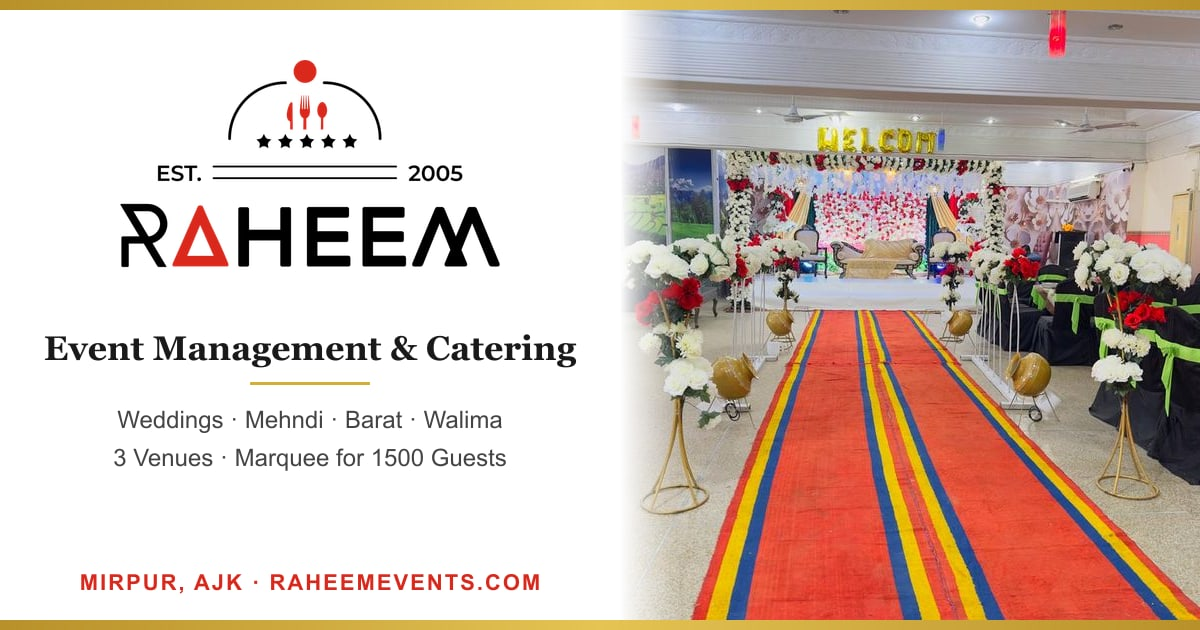
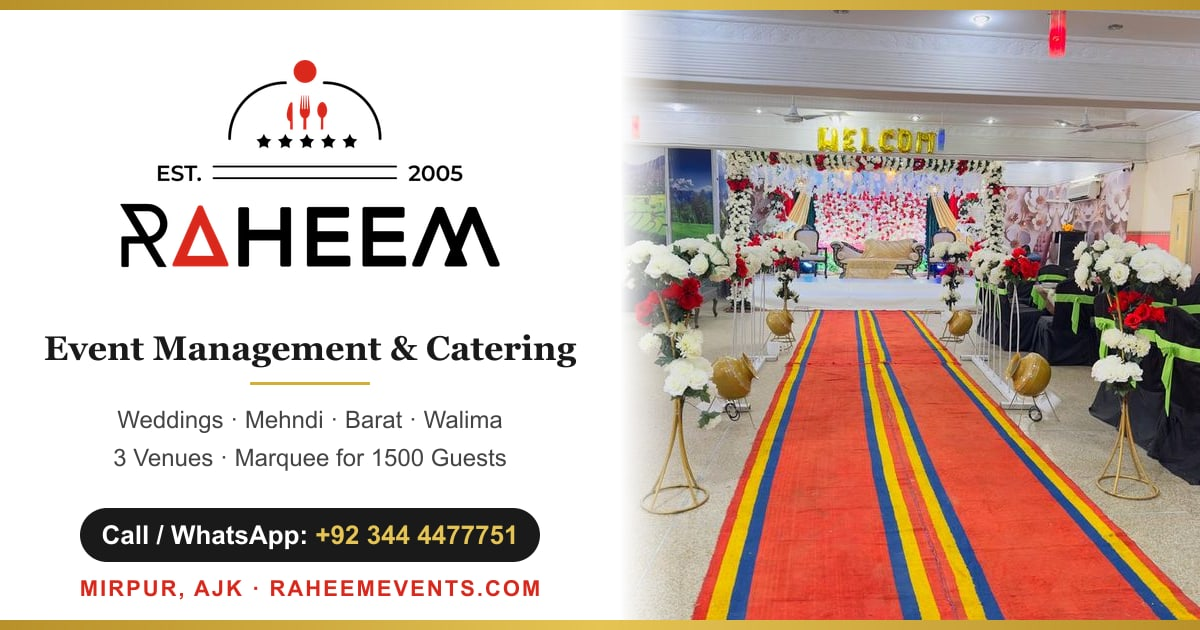
Add phone number to social preview image
Show Call/WhatsApp number on the OG image and version the image URL
(?v=2) so social platforms fetch the updated image instead of a cached one.

Changed region(s): [[0.0617, 0.7841, 0.4625, 0.9651]]

diff --git a/src/app/[locale]/layout.tsx b/src/app/[locale]/layout.tsx
@@ -81,7 +81,7 @@ export async function generateMetadata() {
       type: "website",
       images: [
         {
-          url: "https://raheemevents.com/images/og-default.jpg",
+          url: "https://raheemevents.com/images/og-default.jpg?v=2",
           width: 1200,
           height: 630,
           alt: "Raheem Event Management & Catering",
@@ -92,7 +92,7 @@ export async function generateMetadata() {
       card: "summary_large_image",
       title: "Raheem Event Management & Catering | Wedding Halls & Catering Services",
       description: "Premium catering services and elegant marriage halls in Mirpur, AJK",
-      images: ["https://raheemevents.com/images/og-default.jpg"],
+      images: ["https://raheemevents.com/images/og-default.jpg?v=2"],
     },
     robots: {
       index: true,

diff --git a/src/lib/seo/constants.ts b/src/lib/seo/constants.ts
@@ -110,7 +110,7 @@ export const RATING = {
 
 export const DEFAULT_IMAGES = {
   logo: "/Logo/logo.png",
-  ogDefault: "/images/og-default.jpg",
+  ogDefault: "/images/og-default.jpg?v=2",
   hero: [
     "https://images.unsplash.com/photo-1519167758481-83f550bb49b3?w=1920&q=85",
     "https://images.unsplash.com/photo-1555244162-803834f70033?w=1920&q=85",
